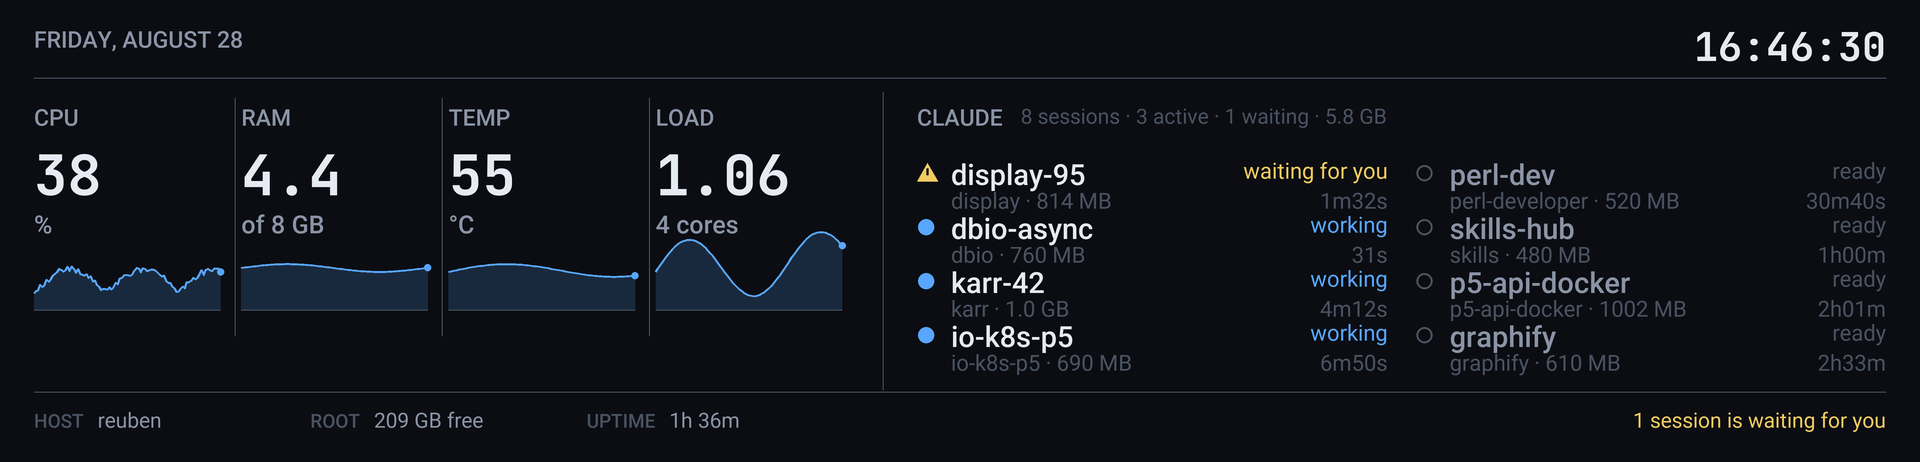
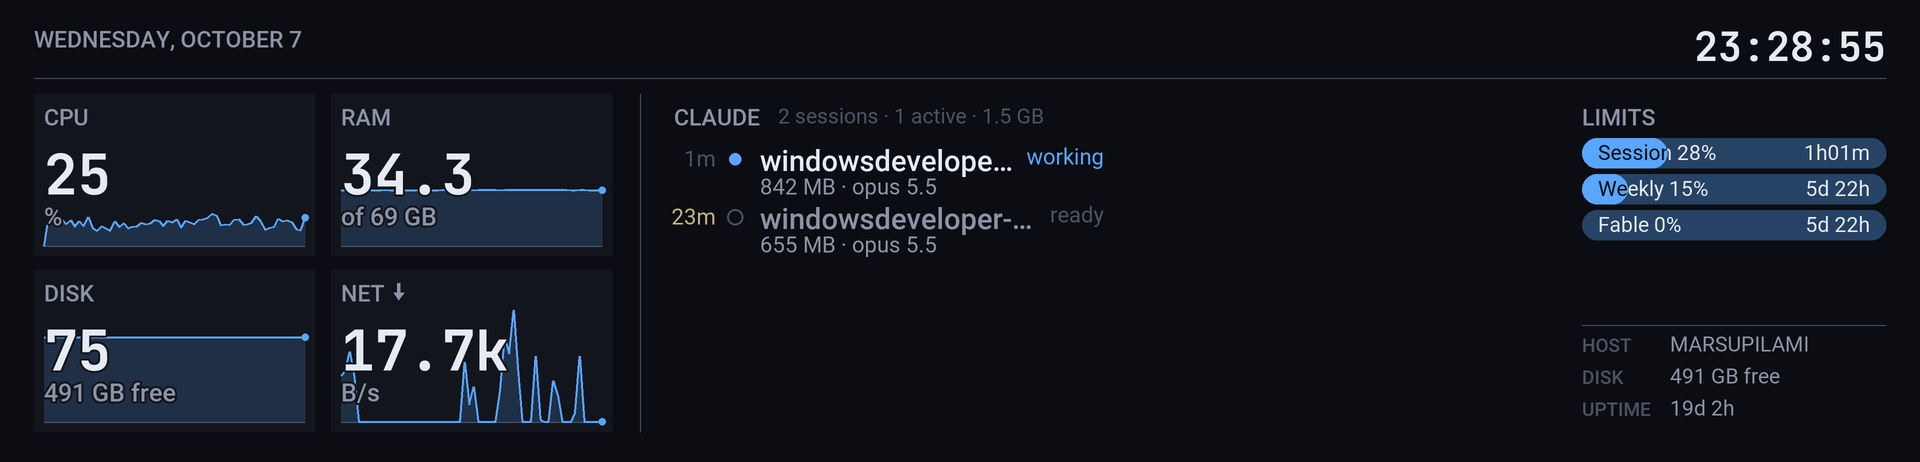
docs(readme): current screenshots, and say up front that it is also a web server and a PNG
The two older screenshots showed a layout that no longer exists. The intro
now also names the uses without a panel: --http --no-panel and preview -o.

preview --claude waits for the usage fetch like preview --board already did;
without that the LIMITS column of a one-shot render was always empty.

diff --git a/tzmrit_display/cli.py b/tzmrit_display/cli.py
@@ -247,7 +247,7 @@ def cmd_preview(args) -> int:
     if remotes is not None:
         args.board = True
         remotes.wait_first(PREVIEW_HOST_WAIT)
-    if args.board:
+    if args.board or args.claude:
         # One shot, so give the off-thread usage fetch a moment to land -
         # `run` just shows the bars a frame or two later.
         deadline = time.monotonic() + PREVIEW_LIMITS_WAIT

diff --git a/README.md b/README.md
@@ -26,10 +26,25 @@ tzmrit-display service install --hosts reuben,pikachu
 ([installer](https://github.com/Getty/tzmrit-display/releases/latest), then
 [Running it permanently](#running-it-permanently).)
 
+**No panel? It is also just a picture.** Every view is rendered as a plain
+1920 × 462 image, and the panel is only one place it can go:
+
+```bash
+tzmrit-display run --hosts reuben,pikachu --http 8080 --no-panel   # web server, no panel attached
+tzmrit-display preview --board -o board.png                        # one PNG, then exit
+```
+
+The first serves a self-refreshing page at `http://<host>:8080/` and the
+current frame at `/frame.png` — for a browser tab, a wall display, or anything
+that can show an image. With a panel attached, `--http` runs alongside it. See
+[View it in a browser](#view-it-in-a-browser---http).
+
 ![System monitor](docs/img/dashboard.png)
 
-**The system monitor** (`run`): six values, each with its recent history. Color
-appears only when something gets out of hand.
+**The system monitor** (`run`): the values that matter, each with its recent
+history — six columns on Linux, five on Windows (as here), where there is no
+temperature sensor or load average to read. Color appears only when something
+gets out of hand.
 
 ![Claude sessions](docs/img/claude.png)
 
